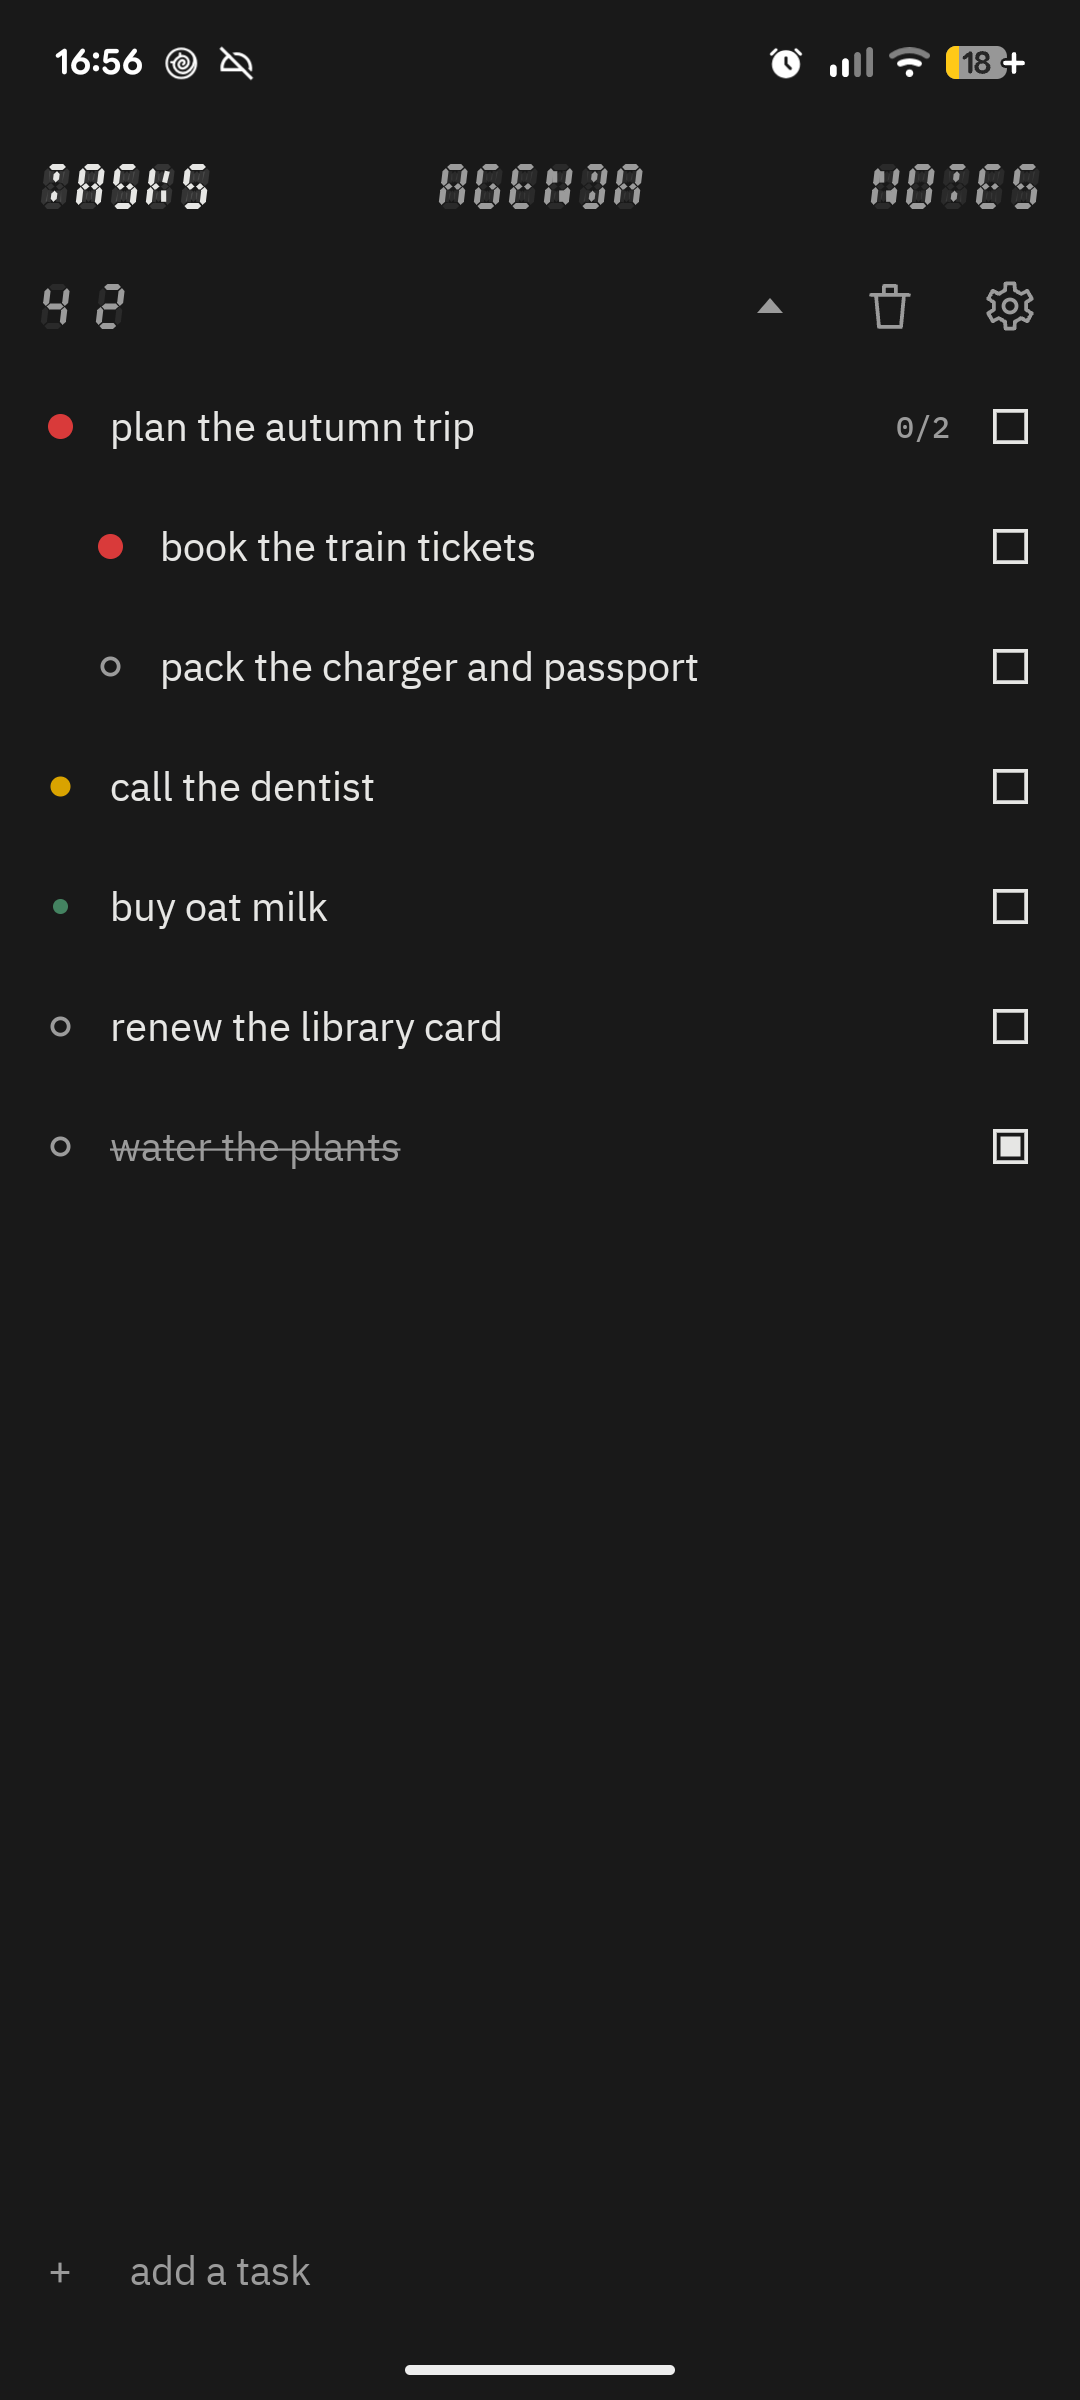
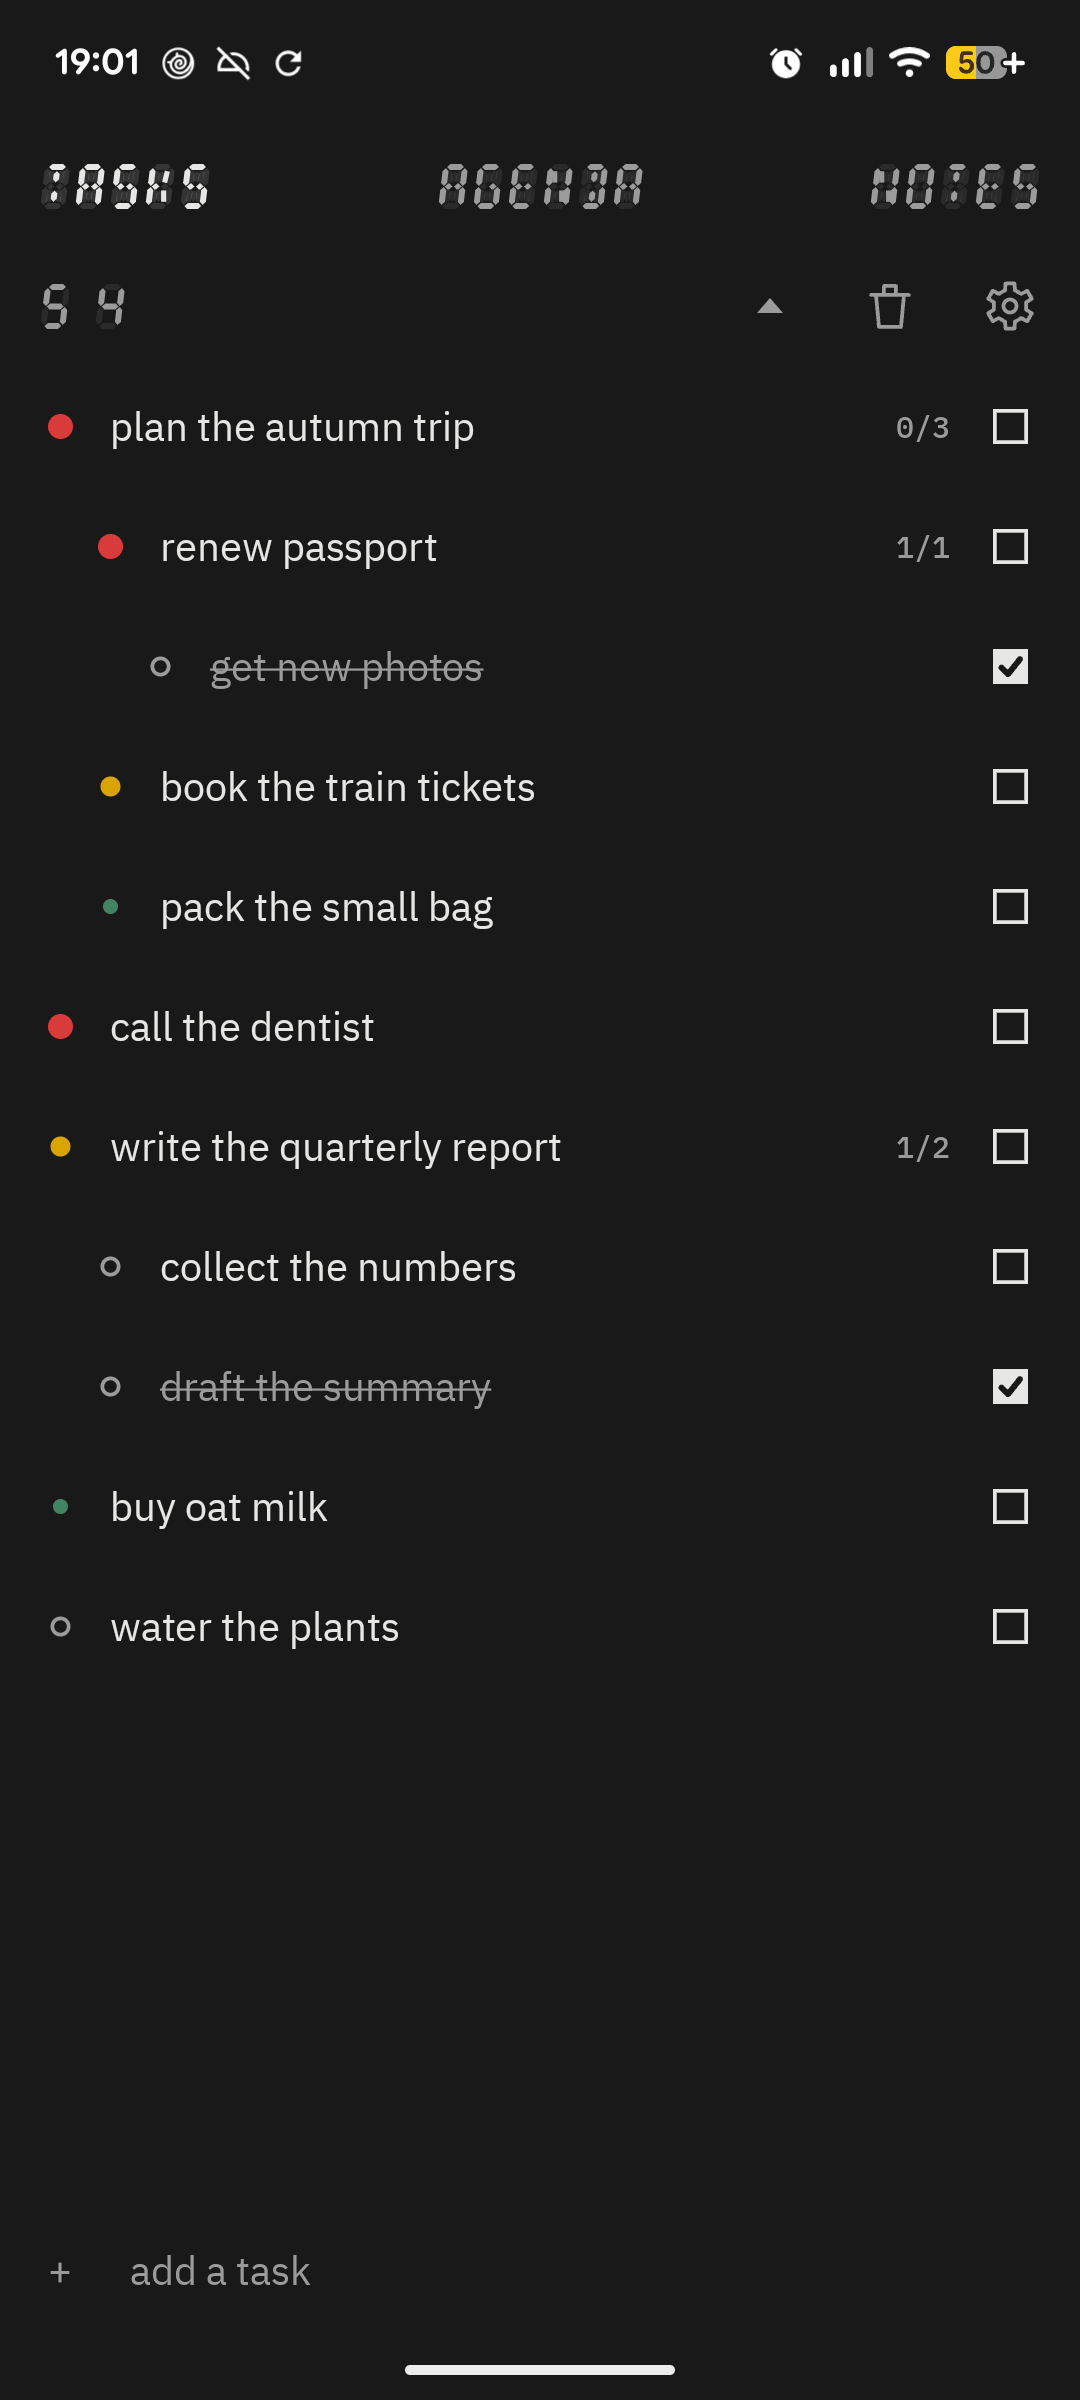
prepare version 1.0.10

diff --git a/android/shared/src/commonMain/kotlin/dev/fourthbreakfast/planner/ui/Controls.kt b/android/shared/src/commonMain/kotlin/dev/fourthbreakfast/planner/ui/Controls.kt
@@ -188,24 +188,27 @@ fun QuietButton(label: String, enabled: Boolean, onClick: () -> Unit) {
 }
 
 /**
- * A check box as a small drawing, the same one for tasks and notes: a sharp square outline, and once checked a bold
- * tick inside it.
+ * A check box as a small drawing, the same one for tasks and notes: a sharp square outline, and once checked the square
+ * is filled with a tick cut out of it.
  */
 @Composable
 fun CheckBoxMark(checked: Boolean, ink: Color, modifier: Modifier = Modifier.size(Space.check)) {
+    val cutout = MaterialTheme.colorScheme.background
     Canvas(modifier) {
         // square and centred, whatever room it is given
         val side = minOf(size.width, size.height, Space.check.toPx())
         val corner = Offset((size.width - side) / 2, (size.height - side) / 2)
         val line = Space.strokeThin.toPx()
-        drawRect(ink, topLeft = corner + Offset(line / 2, line / 2), size = Size(side - line, side - line), style = Stroke(line))
         if (checked) {
+            drawRect(ink, topLeft = corner, size = Size(side, side))
             val tick = Path().apply {
                 moveTo(corner.x + side * 0.24f, corner.y + side * 0.53f)
                 lineTo(corner.x + side * 0.43f, corner.y + side * 0.72f)
                 lineTo(corner.x + side * 0.77f, corner.y + side * 0.29f)
             }
-            drawPath(tick, ink, style = Stroke(line * 2f, cap = StrokeCap.Round, join = StrokeJoin.Round))
+            drawPath(tick, cutout, style = Stroke(line * 1.6f, cap = StrokeCap.Round, join = StrokeJoin.Round))
+        } else {
+            drawRect(ink, topLeft = corner + Offset(line / 2, line / 2), size = Size(side - line, side - line), style = Stroke(line))
         }
     }
 }

diff --git a/android/shared/src/commonMain/kotlin/dev/fourthbreakfast/planner/notes/NoteEditor.kt b/android/shared/src/commonMain/kotlin/dev/fourthbreakfast/planner/notes/NoteEditor.kt
@@ -242,12 +242,12 @@ private fun NoteText(state: NoteEditState) {
         )
         val placed = layout
         if (placed != null) {
-            // where each line begins; an empty line, such as the new one after Enter, begins where the text ends
-            var start = 0
+            // the field's text has one character in front of the note's, so a line begins one further on
+            var start = 1
             state.text.split('\n').forEachIndexed { index, words ->
                 val mark = marks.getOrNull(index)
-                if (mark != null && mark.kind != LineKind.PLAIN) {
-                    val row = placed.getLineForOffset(start.coerceAtMost(placed.layoutInput.text.length))
+                if (mark != null && mark.kind != LineKind.PLAIN && start <= placed.layoutInput.text.length) {
+                    val row = placed.getLineForOffset(start)
                     val top = with(density) { placed.getLineTop(row).toDp() }
                     val height = with(density) { (placed.getLineBottom(row) - placed.getLineTop(row)).toDp() }
                     LineMarker(mark, numbers.getOrNull(index), top, height) { state.toggleChecked(index) }

diff --git a/CHANGELOG.md b/CHANGELOG.md
@@ -2,6 +2,12 @@
 
 what changed in each release, newest first. these notes are also the text of each [release](https://github.com/fourthbreakfast/planner/releases).
 
+## 1.0.10
+
+- notes: the check, bullet and number markers sit on their own lines again (1.0.8 and 1.0.9 drew them a row too high)
+- check boxes: checked is a filled square with the tick cut out, as in most apps
+- new pictures in the readme and the store listing
+
 ## 1.0.9
 
 - windows: the add lines at the foot of the columns sit higher, with as much room under them as beside them
